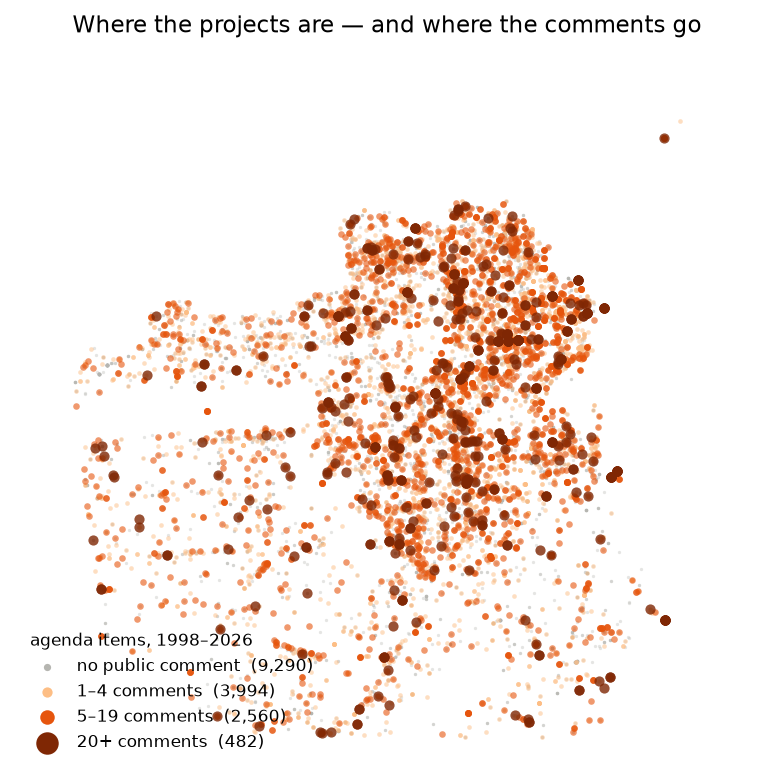
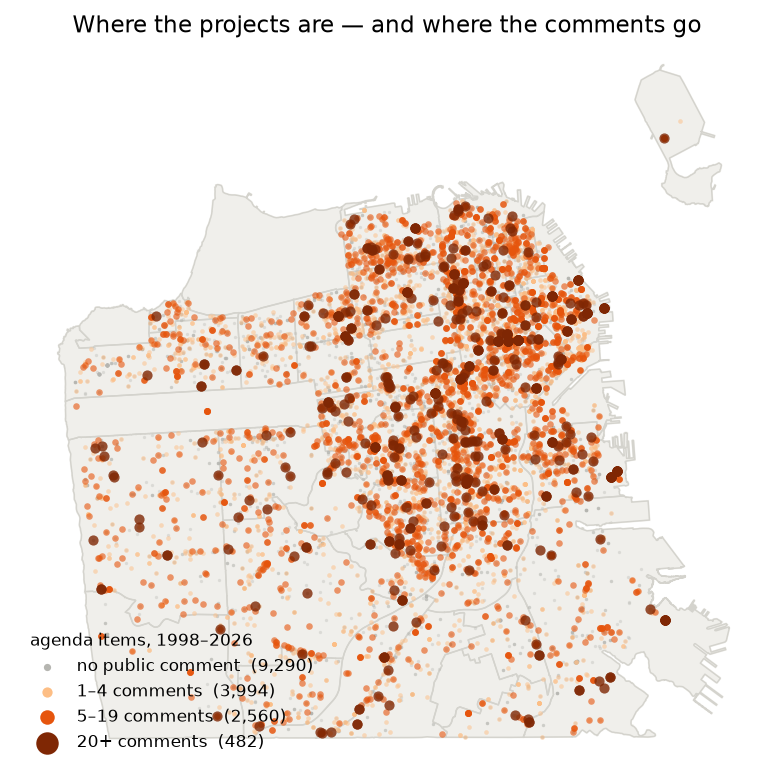
Project map: neighborhood basemap (DataSF ajp5-b2md), auto-fetch layer

diff --git a/pipeline/make_figures.py b/pipeline/make_figures.py
@@ -101,7 +101,14 @@ def _draw_neighborhoods(ax):
     import json
     gj_path = ROOT / "data" / "raw" / "neighborhoods.geojson"
     if not gj_path.exists():
-        return
+        import requests
+        r = requests.get(
+            "https://data.sfgov.org/resource/ajp5-b2md.geojson",
+            params={"$limit": 120}, timeout=60)
+        if r.ok:
+            gj_path.write_bytes(r.content)
+        else:
+            return
     gj = json.load(open(gj_path))
     for feat in gj["features"]:
         geom = feat.get("geometry")
